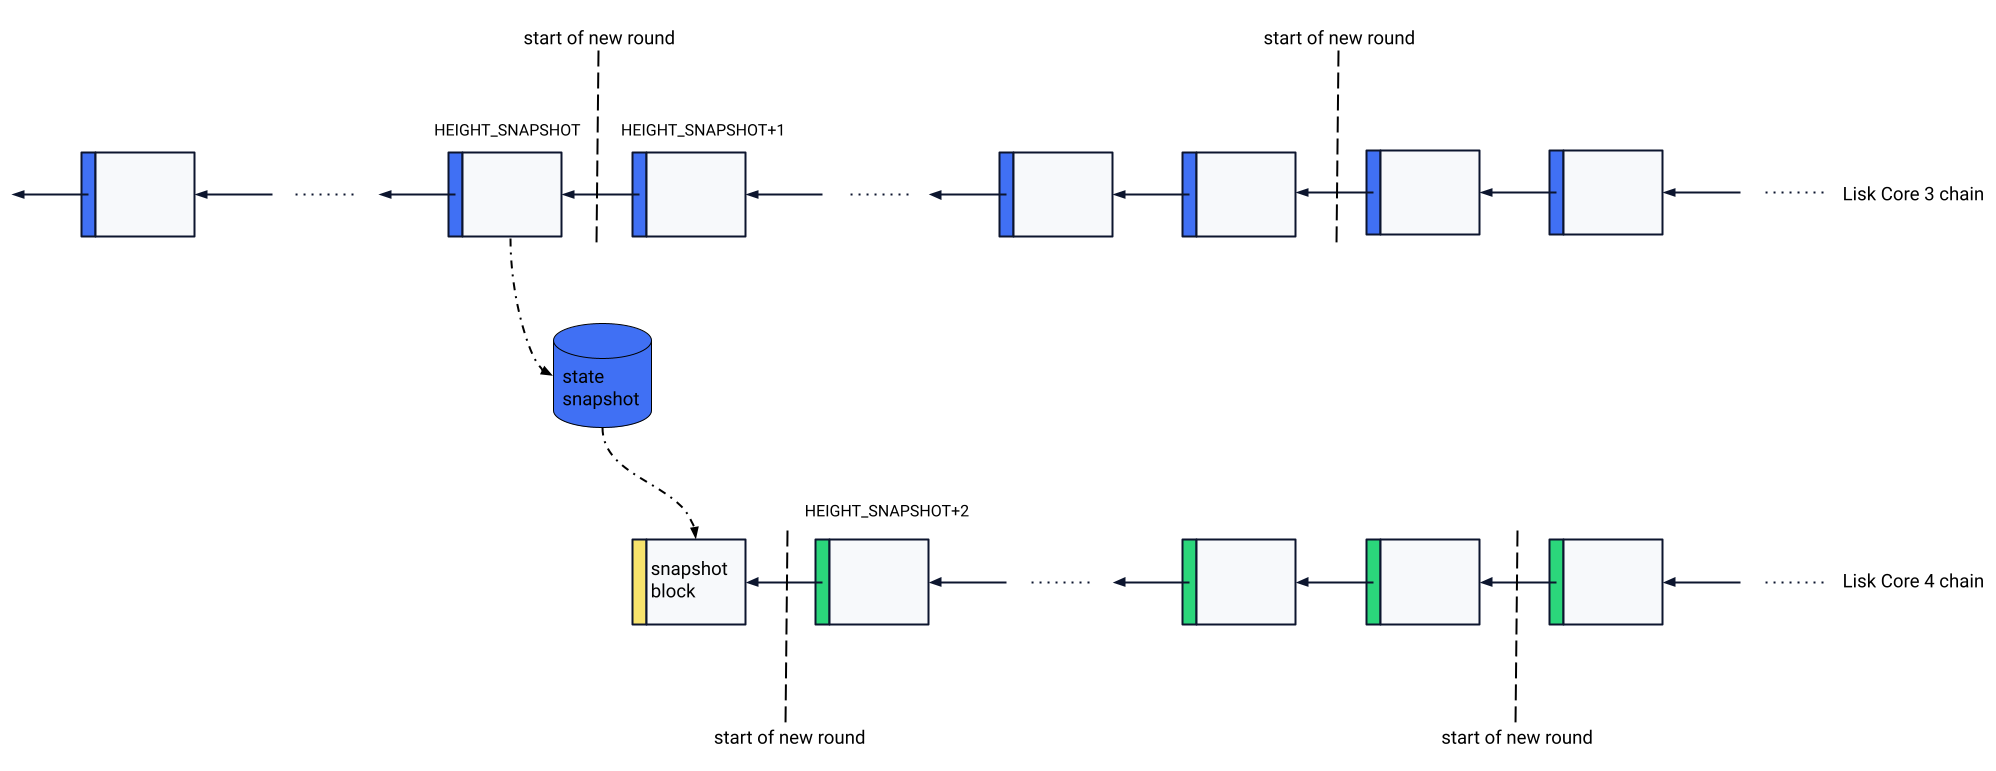
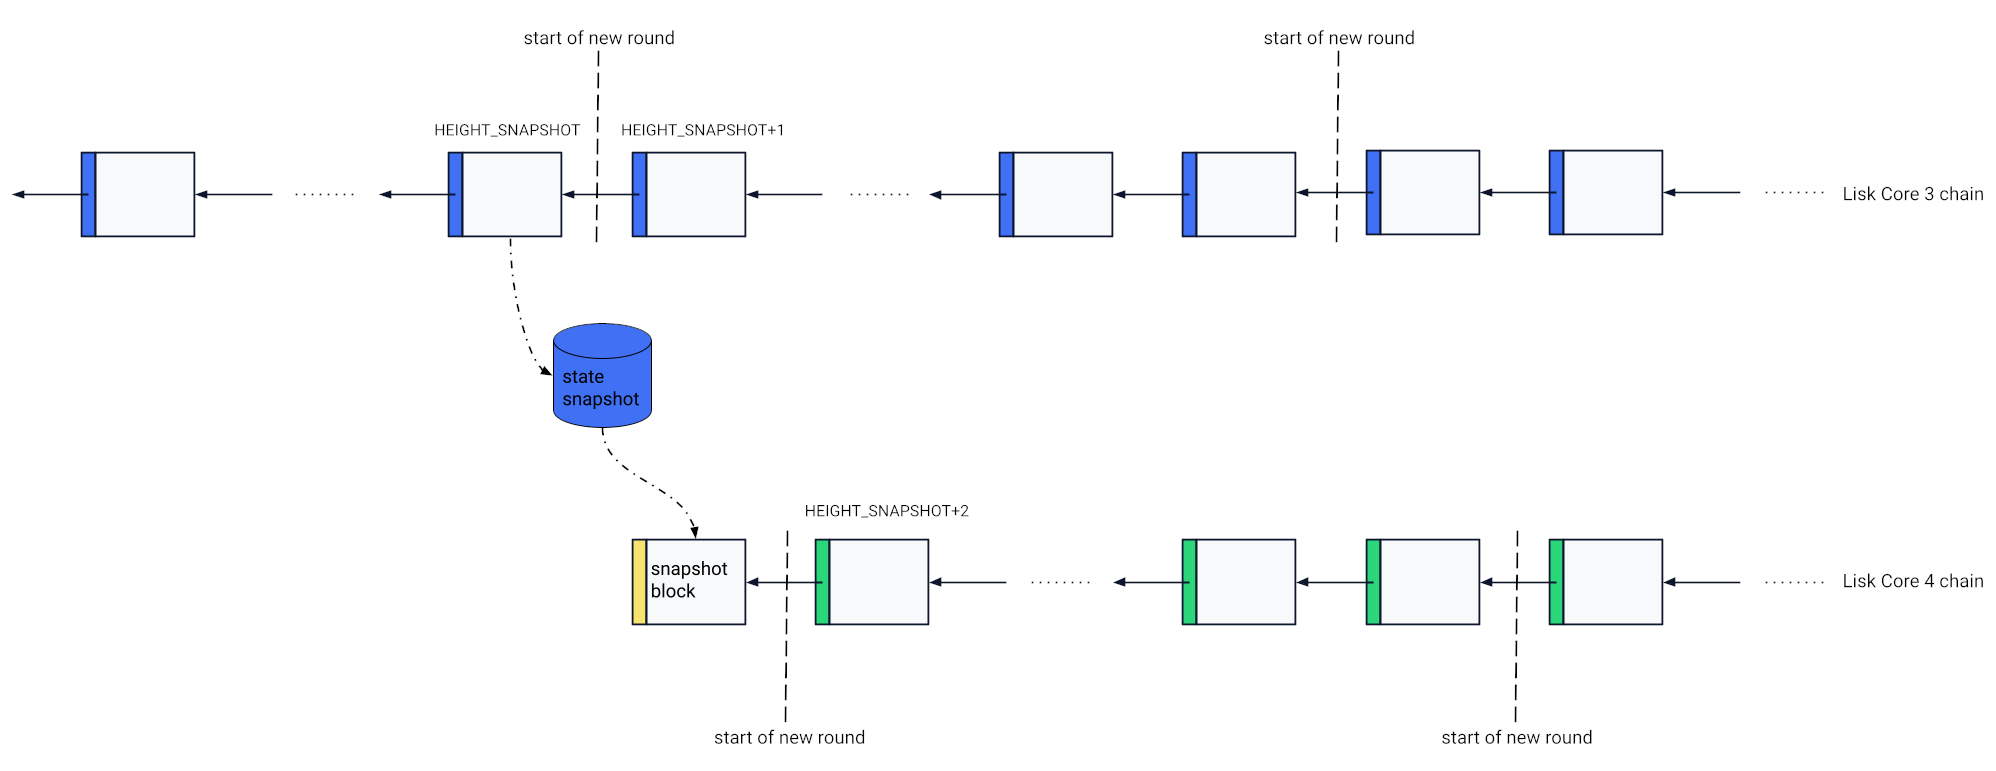
Addressed review by Rishi, added background color to graphics for dark mode

diff --git a/proposals/mainnet_migration.md b/proposals/mainnet_migration.md
@@ -130,7 +130,7 @@ ffffff
 ```
 
    </td>
-   <td>An Ed25519 public key for which the signature validation always fails. This value is used for the <code>generatorPublicKey</code> property of validators in the snapshot block for which no public key is contained within the history since the last snapshot block.
+   <td>An Ed25519 public key for which the signature validation always fails. This value is used for the <code>generatorPublicKey</code> property of validators in the snapshot block for which no public key is present within the history since the last snapshot block.
    </td>
   </tr>
   <tr>
@@ -143,7 +143,7 @@ ffffff
 48 bytes all set to 0
 
    </td>
-   <td>An invalid BLS key, used as a placeholder before a valid BLS key is registered. It is invalid as deserialization fails since the most significant bit of the first byte is zero while the total length is 48 (see second point <a href="https://datatracker.ietf.org/doc/html/draft-irtf-cfrg-pairing-friendly-curves-07#appendix-C.2">here</a>).
+   <td>A BLS key, used as a placeholder before a valid BLS key is registered. It is invalid since the most significant bit of the first byte is zero while the total length is 48 and deserialization fails(see second point <a href="https://datatracker.ietf.org/doc/html/draft-irtf-cfrg-pairing-friendly-curves-07#appendix-C.2">here</a>).
    </td>
   </tr>
   <tr>
@@ -163,7 +163,7 @@ ffffff
    </td>
    <td>TBD
    </td>
-   <td>The height of the block from which a state snapshot is taken. This block must be an end of a round block. The snapshot block has then the height <code>HEIGHT_SNAPSHOT +1</code>.
+   <td>The height of the block from which a state snapshot is taken. This block must be an end of a round block. The snapshot block then has the height <code>HEIGHT_SNAPSHOT +1</code>.
    </td>
   </tr>
   <tr>
@@ -183,7 +183,7 @@ ffffff
    </td>
    <td>TBD
    </td>
-   <td>The number of seconds between the block at height <code>HEIGHT_SNAPSHOT</code> and the snapshot block.
+   <td>The number of seconds elapsed between the block at height <code>HEIGHT_SNAPSHOT</code> and the snapshot block.
    </td>
   </tr>
   <tr>
@@ -216,13 +216,13 @@ Lisk Core v4 will use the following modules:
 
 #### Constants
 
-Some new LIPs introduced configurable constants. The values for those constants are specified in the following table.
+Some new LIPs introduced configurable constants. The values for these constants are specified in the following table:
 
 **Module/LIP**                                                                                                  | **Constant Name**              | **Value**
 --------------------------------------------------------------------------------------------------------------- | ------------------------------ | -------------------------------------------------------------------------------------------------------------------------------------------
 [BFT Module](https://github.com/LiskHQ/lips/blob/main/proposals/lip-0058.md#constants)                          | `LSK_BFT_BATCH_SIZE`           | 103
 [LIP 0055](https://github.com/LiskHQ/lips/blob/main/proposals/lip-0055.md#notation-and-constants)               | `MAX_TRANSACTIONS_SIZE_BYTES`  | 15,360
-[LIP 0055](https://github.com/LiskHQ/lips/blob/main/proposals/lip-0055.md#notation-and-constants)               | `MAX_ASSET_DATA_SIZE_BYTES`    | 18 (the Reward Module is only module adding an entry to the assets property whereby the size of the data property will not exceed 18 bytes)
+[LIP 0055](https://github.com/LiskHQ/lips/blob/main/proposals/lip-0055.md#notation-and-constants)               | `MAX_ASSET_DATA_SIZE_BYTES`    | 18 (The Reward Module is the only module adding an entry to the assets property whereby the size of the data property will not exceed 18 bytes)
 [DPoS Module](https://github.com/LiskHQ/lips/blob/main/proposals/lip-0057.md#notation-and-constants)            | `FACTOR_SELF_VOTES`            | 10
 [DPoS Module](https://github.com/LiskHQ/lips/blob/main/proposals/lip-0057.md#notation-and-constants)            | `MAX_LENGTH_NAME`              | 20
 [DPoS Module](https://github.com/LiskHQ/lips/blob/main/proposals/lip-0057.md#notation-and-constants)            | `MAX_NUMBER_SENT_VOTES`        | 10
@@ -247,16 +247,16 @@ Some new LIPs introduced configurable constants. The values for those constants 
 
 ![Overview of migration process](lip_mainnet_migration/migration_graphic.png)
 
-_Figure 1: Overview of the migration process. Elements in blue are created by Lisk Core v3, including the state snapshot. Elements in yellow - the snapshot block - are created by the migrator tool. Elements in green are created by Lisk Core v4._
+_Figure 1: Overview of the migration process. Elements in blue are created by Lisk Core v3, including the state snapshot. The element in yellow - the snapshot block - is created by the migrator tool. Elements in green are created by Lisk Core v4._
 
-The migration from Lisk Core v3 to Lisk Core v4, also depicted in Figure 1, is performed by the following steps:
+The migration from Lisk Core v3 to Lisk Core v4, also depicted in Figure 1, is performed as follows:
 
 1. Nodes run Lisk Core v3, where the following steps are done:
-    1. After a block at height `HEIGHT_SNAPSHOT` was processed, a snapshot of the state is performed, which we denote by `STATE_SNAPSHOT`. If this block is reverted and a new block for this height is processed, then also `STATE_SNAPSHOT` needs to be computed again.
+    1. Once a block at height `HEIGHT_SNAPSHOT` is processed, a snapshot of the state is derived, which we denote by `STATE_SNAPSHOT`. If this block is reverted and a new block for this height is processed, then `STATE_SNAPSHOT` needs to be computed again.
     2. Nodes continue processing blocks until the block at height `HEIGHT_SNAPSHOT` is final.
-    3. Once the block at height `HEIGHT_SNAPSHOT` is final, nodes can stop forging and processing new blocks. Finalized blocks with a height larger than or equal to `HEIGHT_SNAPSHOT + 1` are discarded.
-2. Nodes compute a snapshot block as defined [below](#snapshot-block) using a _migrator tool_ and persist this one locally.
-3. Nodes start to use Lisk Core v4, where the steps described in the section [Starting Lisk Core v4](#starting-lisk-core-4) are executed.
+    3. Once the block at height `HEIGHT_SNAPSHOT` is final, nodes can stop forging and processing new blocks. All blocks with a height larger than or equal to `HEIGHT_SNAPSHOT + 1` are discarded, even if they are finalized.
+2. Nodes compute a snapshot block as defined [below](#snapshot-block) using a _migrator tool_ and store it locally.
+3. Nodes start to run Lisk Core v4, where the steps described in the section [Starting Lisk Core v4](#starting-lisk-core-4) are executed.
 4. Once the timeslot of the snapshot block at height `HEIGHT_SNAPSHOT + 1` is passed, the first round following the new protocol starts.
 
 ##### Starting Lisk Core v4
@@ -264,33 +264,35 @@ The migration from Lisk Core v3 to Lisk Core v4, also depicted in Figure 1, is p
 When Lisk Core v4 is started for the first time, the following steps are performed:
 
 1. Get the snapshot block (the one for height `HEIGHT_SNAPSHOT + 1`):
-    1. Check if the snapshot block for height `HEIGHT_SNAPSHOT + 1` exists locally. If yes, fetch this block. If not, stop here.
+    1. Check if the snapshot block for height `HEIGHT_SNAPSHOT + 1` exists locally. If yes, fetch this block. If not, stop the initialization here.
 2. Process the snapshot block as described in [LIP 0060](https://github.com/LiskHQ/lips/blob/main/proposals/lip-0060.md).
 3. Check if all blocks between heights `HEIGHT_PREVIOUS_SNAPSHOT_BLOCK` and `HEIGHT_SNAPSHOT` (inclusive) from Lisk Core v3 can be found locally. If yes:
     1. Fetch these blocks from highest height to lowest. Each block is validated using [minimal validation steps as defined below](#minimal-validation-of-core-v3-blocks). If this validation step passes, the block and its transactions are persisted in the database.
     2. Skip steps 4 and 5.
-4. Fetch all blocks between heights `HEIGHT_PREVIOUS_SNAPSHOT_BLOCK+1` and `HEIGHT_SNAPSHOT` (inclusive) via peer-to-peer from highest height to lowest. Each block is validated using [minimal validation steps as defined below](#minimal-validation-of-core-v3-blocks). If this validation step passes, the block and its transactions are persisted in the database.
+4. Fetch all blocks between heights `HEIGHT_PREVIOUS_SNAPSHOT_BLOCK+1` and `HEIGHT_SNAPSHOT` (inclusive) via peer-to-peer network from highest to lowest height. Each block is validated using [minimal validation steps as defined below](#minimal-validation-of-core-v3-blocks). If this validation passes, the block along with its transactions is persisted in the database.
 5. The snapshot block for the height `HEIGHT_PREVIOUS_SNAPSHOT_BLOCK` is downloaded from a server. The URL for the source can be configured. When downloaded, it is validated using [minimal validation steps as defined below](#minimal-validation-of-core-v3-blocks). If this validation step passes, the block is persisted in the database.
 
-Due to step 1.i, it is a requirement to run Lisk Core v3 and the migrator tool before running Lisk Core v4\. However, nodes starting some time after the migration may fetch the snapshot block and its preceding blocks without running Lisk Core v3 and migrator tool before, as described in the following subsection.
+The steps 3 to 5 from above could run in the background with low priority.
+
+Due to step 1.1, it is a requirement to run Lisk Core v3 and the migrator tool before running Lisk Core v4\. However, nodes starting some time after the migration may fetch the snapshot block and its preceding blocks without running Lisk Core v3 and migrator tool, as described in the following subsection.
 
 ###### Fetching Block History and Snapshot Block without Running Lisk Core v3
 
-Once the snapshot block at height `HEIGHT_SNAPSHOT + 1` is final, a new version of Lisk Core v4 can be released that has the block ID of this snapshot block hard-coded. In the following, we denote this version by Lisk Core v4+. When Lisk Core v4+ starts for the first time, the same steps as described above are executed, except that step 1 is replaced by the following:
+Once the snapshot block at height `HEIGHT_SNAPSHOT + 1` is final, a new version of Lisk Core v4 that has the block ID of this snapshot block hard-coded can be released. In the following, we denote this version by Lisk Core v4+. When Lisk Core v4+ starts for the first time, the same steps as described above are executed, except that step 1 is replaced by the following:
 
 1. Get the snapshot block (the one for height `HEIGHT_SNAPSHOT + 1`):
     1. Check if the snapshot block for height `HEIGHT_SNAPSHOT + 1` exists locally. If yes:
         1. Fetch this block.
-        2. Verify that the block ID of this block is matching with the hard-coded block ID of the snapshot block. If yes, skip step b. If not, continue with step ii.
-    2. The snapshot block for height `HEIGHT_SNAPSHOT + 1` is downloaded from a server. The URL for the source can be configured in Lisk Core v4+. When downloaded, it must first be verified that the block ID of this block is matching with the hard-coded block ID of the snapshot block. If not, stop here (the process should be repeated, but the node operator should specify a new server to download the snapshot block from).
+        2. Verify that the block ID of this block is matching with the hard-coded block ID of the snapshot block. If yes, skip step 2. If not, continue with step 2.
+    2. The snapshot block for height `HEIGHT_SNAPSHOT + 1` is downloaded from a server. The URL for the source can be configured in Lisk Core v4+. Once downloaded, it first must be verified that the block ID of this block matches with the hard-coded block ID of the snapshot block. If not, stop the initialization here (the process should be repeated, but the node operator should specify a new server to download the snapshot block from).
 
-Note that once the snapshot block for height `HEIGHT_SNAPSHOT + 1` is processed, the node should start its regular block synchronization, i.e., fetching the blocks with height larger than `HEIGHT_SNAPSHOT + 1`. The steps 3 to 5 from above could run in the background with low priority.
+Note that once the snapshot block for height `HEIGHT_SNAPSHOT + 1` is processed, the node should start its regular block synchronization, i.e., fetching the blocks with height larger than `HEIGHT_SNAPSHOT + 1`. The steps 4 to 5 from above could run in the background with low priority.
 
 ###### Minimal Validation of Core v3 Blocks
 
 A block created by Lisk Core v3, i.e., a block with a height between `HEIGHT_PREVIOUS_SNAPSHOT` and `HEIGHT_SNAPSHOT` (inclusive) is validated as follows:
 
-- Verify that the block follows the [`block schema`](https://github.com/LiskHQ/lips/blob/main/proposals/lip-0029.md#deserialization) defined LIP 0029.
+- Verify that the block follows the [`block schema`](https://github.com/LiskHQ/lips/blob/main/proposals/lip-0029.md#deserialization) defined in LIP 0029.
 - Compute the block ID as defined in [LIP 0029](https://github.com/LiskHQ/lips/blob/main/proposals/lip-0029.md#block-id) and verify that it is equal to the `previousBlockID` property of the child block.
 - Verify that the transactions in the payload yield the [transaction root](https://github.com/LiskHQ/lips/blob/main/proposals/lip-0032.md#specification) provided in the block header.
 
@@ -487,21 +489,21 @@ createGenesisDataObj():
 
 ### Keeping Lisk Core v3 Block History
 
-The decision to discard the block history of Lisk Mainnet at the hard fork from Lisk Core v2 to Lisk Core v3 was considered as rather disadvantageous. One reason is that the transaction history of an account can not be retrieved anymore from a node running Lisk Core v3\. Therefore, the block history of blocks created with Lisk Core v3 shall be kept on Lisk Core v4 nodes.
+The decision to discard the block history of Lisk Mainnet at the hard fork from Lisk Core v2 to Lisk Core v3 was considered as rather disadvantageous. One reason is that the entire transaction history of an account can not be retrieved anymore from a node running Lisk Core v3\. Therefore, the block history of blocks created with Lisk Core v3 shall be kept on Lisk Core v4 nodes.
 
 #### Getting the Lisk Core v3 Block History
 
 In order to keep the implementation of Lisk Core v4 as clean as possible, Lisk Core v4 cannot process Lisk Core v3 blocks, but only ensure their integrity. This is, however, sufficient for maintaining the Lisk Core v3 block history and guaranteeing the immutability of this block history.
 
-Once Lisk Core v4 processed the snapshot block, it can fetch the whole Lisk Core v3 block history, where this is done from the highest to the lowest height. This allows that each block can be validated by simply checking if its block ID matches with the `previousBlockID` property of the child block, and if the payload matches with the `transactionRoot` property. Thus, almost no protocol rules related to Lisk Core v3 must be implemented which keeps the implementation clean. The Lisk Core v3 history can be fetched from a database created by Lisk Core v3 on the same computer or from the peer-to-peer network. Note that the first Lisk Core v3 block - the snapshot block of the previous migration - poses an exception as this one is either [downloaded from a server](#fetching-snapshot-blocks) or fetched from a database created by Lisk Core v3 on the same computer.
+Once Lisk Core v4 processes the snapshot block, it can fetch the whole Lisk Core v3 block history, where this is done from the highest to the lowest height. This allows that each block can be validated by simply checking if its block ID matches with the `previousBlockID` property of the child block, and if the payload matches with the `transactionRoot` property. Thus, almost no protocol rules related to Lisk Core v3 must be implemented which keeps the implementation clean. The Lisk Core v3 history can be fetched from a database created by Lisk Core v3 on the same machine or from the peer-to-peer network. Note that the first Lisk Core v3 block - the snapshot block of the previous migration - poses an exception as this one is either [downloaded from a server](#fetching-snapshot-blocks) or fetched from a database created by Lisk Core v3 on the same machine.
 
 ### Fetching Snapshot Blocks
 
-The snapshot block created for this hard fork as well as for the [one used for the previous hard fork](https://lisk.observer/block/abdea6dfe5941922d958d1f1dc1d2f97249723b8852325334e55b73e92584191) are not shared via peer-to-peer due to their large size. Instead, they are either downloaded from a server or must be found locally.
+The snapshot block created for this hard fork as well as for the [one used for the previous hard fork](https://lisk.observer/block/abdea6dfe5941922d958d1f1dc1d2f97249723b8852325334e55b73e92584191) is not shared via peer-to-peer network due to their large size. Instead, they are either downloaded from a server or must be found locally.
 
 #### Initial Version of Lisk Core v4
 
-The initial version of Lisk Core v4 can not download the snapshot block of this hard fork from a server because it could not validate the block. Instead, it must find the snapshot block locally on the same computer. This requires that the snapshot block must be created using a migrator tool on the same node, which in turn requires that the node runs the latest patched version of Lisk Core v3 until the block at height `HEIGHT_SNAPSHOT` is final.
+The initial version of Lisk Core v4 can not download the snapshot block for this hard fork from a server because it could not validate the block. Instead, it must find the snapshot block locally on the same machine. This requires that the snapshot block must be created using a migrator tool on the same node, which in turn requires that the node runs the latest patched version of Lisk Core v3 until the block at height `HEIGHT_SNAPSHOT` is final.
 
 #### Later Versions of Lisk Core v4
 
@@ -509,7 +511,7 @@ Once the snapshot block is final, a patched version of Lisk Core v4 will be rele
 
 #### Downloading from Server
 
-The URL can be configured. By default, the URL points to a server of the Lisk Foundation. The snapshot block of this hard fork is validated by checking that its block ID matches the hard coded block ID in the patched version of Lisk Core v4\. The snapshot block of the previous migration is validated by checking that its block ID matches with the `previousBlockID` property of its child block (see also [here](#getting-the-lisk-core-3-block-history)). Hence, there are no security concerns by downloading them from a non-trusted server. Users can nevertheless configure their node to download it from a server of their choice. The snapshot blocks could be provided by any users. This may also be helpful for situations where the Lisk Foundation server should be down.
+The URL can be configured. By default, the URL points to a server of the Lisk Foundation. The snapshot block of this hard fork is validated by checking that its block ID matches the hard coded block ID in the patched version of Lisk Core v4\. The snapshot block of the previous migration is validated by checking that its block ID matches with the `previousBlockID` property of its child block (see also [here](#getting-the-lisk-core-3-block-history)). Hence, there are no security concerns by downloading them from even a non-trusted server. Users can nevertheless configure their node to download it from a server of their choice. The snapshot blocks could be provided by any user. This may also be helpful in situations where the Lisk Foundation server is down.
 
 ### Assigning Generator Key to Validator Accounts
 
@@ -527,7 +529,7 @@ In blockchains created with Lisk SDK v6, one needs to [register](https://github.
 
 ### Bootstrap Period
 
-There will be a bootstrap period in which a fixed set of delegates will constitute the set of active delegates. This period will last for one week assuming no missed blocks. This is done by setting the [`initRounds`](https://github.com/LiskHQ/lips/blob/main/proposals/lip-0057.md#genesis-assets-schema) property in the snapshot block to the corresponding value, which is given by `DPOS_INIT_ROUNDS`. The reason to have this period is that the DPoS module selects only delegates with a valid BLS key outside of the bootstrap period (there will be an update to [LIP 0057](https://github.com/LiskHQ/lips/blob/main/proposals/lip-0057.md) that adapts the delegate selection in this way). Thus, without bootstrap period, the DPoS module could not select any delegates right after the hard fork which would result in a stop of the chain.
+There will be a bootstrap period in which a fixed set of delegates will constitute the set of active delegates. This period will last for one week assuming no missed blocks. This is done by setting the [`initRounds`](https://github.com/LiskHQ/lips/blob/main/proposals/lip-0057.md#genesis-assets-schema) property in the snapshot block to the corresponding value, which is given by `DPOS_INIT_ROUNDS`. The reason to have this period is that the DPoS module selects delegates only with a valid BLS key outside of the bootstrap period (there will be an update to [LIP 0057](https://github.com/LiskHQ/lips/blob/main/proposals/lip-0057.md) that adapts the delegate selection in this way). Thus, without a bootstrap period, the DPoS module could not select any delegates right after the hard fork which would result in a stop of the chain.
 
 The bootstrap period allows each delegate to submit a _[register BLS key](https://github.com/LiskHQ/lips/blob/main/proposals/lip-0050.md#register-bls-key)_ transaction in a sufficiently large time window. The expectation is that most delegates have a valid BLS key after the bootstrap period. In the unexpected case that there are less than 101 non-banned delegates with a BLS key, the DPoS module would simply select a smaller set of delegates that get the block slots of a round assigned round robin.
 
